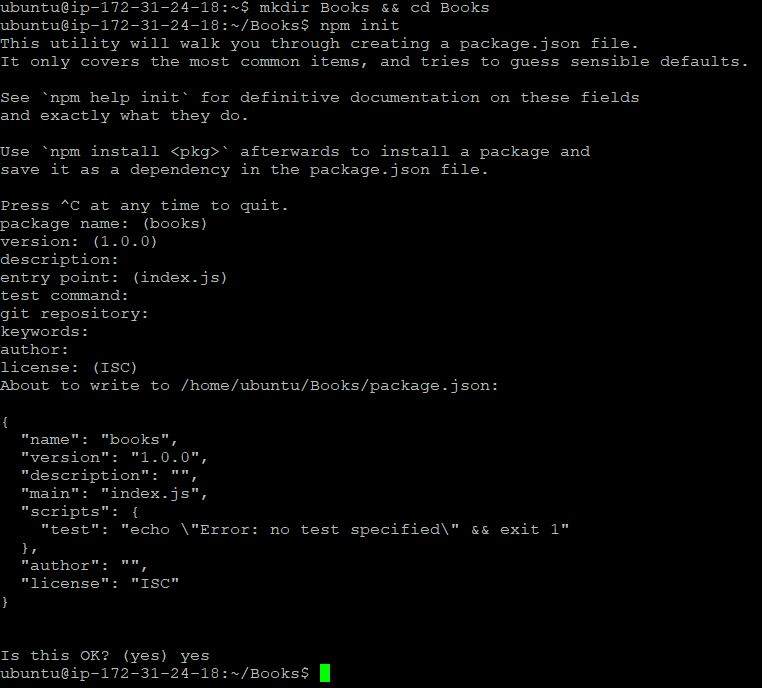
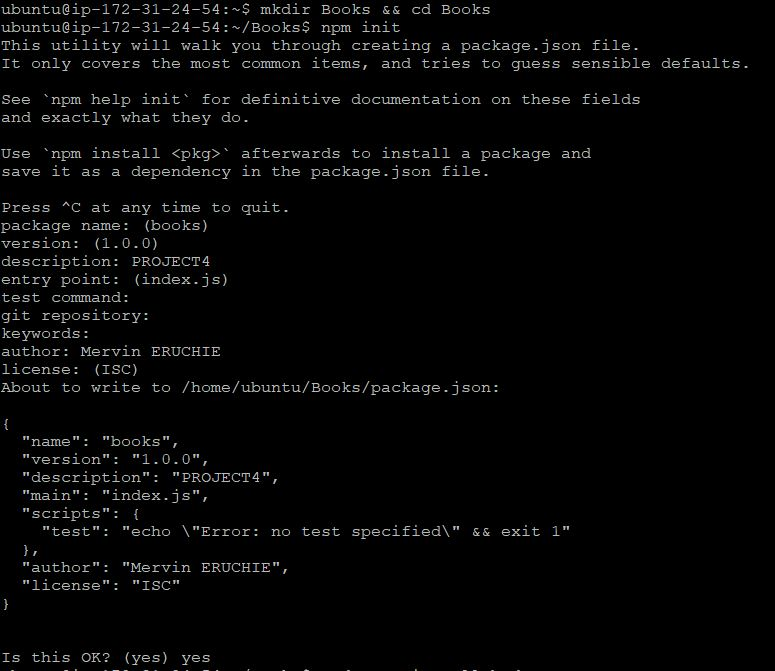
Project 4 update

diff --git a/project4.md b/project4.md
@@ -87,16 +87,17 @@ You can download & install the package from http://archive.ubuntu.com/ubuntu/poo
 
       ![step11](./project4Pictures/step11a_p4.JPG)
 
-   i. Install `body-parser` package
-   - `sudo npm install body-parser`
-
-     ![step12](./project4Pictures/step12_p4.JPG) 
-
-   j. Create a folder named Books and in the Books directory, initialize `npm` project
+  
+   i. Create a folder named Books and in the Books directory, initialize `npm` project
    - `mkdir Books && cd Books`
    - `npm init`
 
      ![step13](./project4Pictures/step13_p4.JPG) 
+
+   j. Install `body-parser` package
+   - `sudo npm install body-parser`
+
+     ![step12](./project4Pictures/step12_p4.JPG) 
 
    k. Add a file named `server.js`and paste the code as shown in the steps below
    - `vi server.js`
@@ -118,12 +119,12 @@ You can download & install the package from http://archive.ubuntu.com/ubuntu/poo
 
    We will use Mongoose package which provides a straight-forward, schema based solution to the model application data. We will also use Mongoose to establish a schema for the database to store data of our book register. 
 
-   a. Install Express using Mongoose package
+   a. Install Express using Mongoose package; navigate to the **Books** directory and instakk express.
    
    - `sudo npm install express mongoose`
    ![step15](./project4Pictures/step15_p4.JPG)  
 
-   b. Create a folder named `apps` in Books folder and within `apps`, create a file named `routes.js` and copy and paste the code on the third step below into `routes.js` file.
+   b. Create a folder named `apps` in **Books** folder and within `apps`, create a file named `routes.js` and copy and paste the code on the third step below into `routes.js` file.
 
    - `mkdir apps && cd apps`
    - `vi routes.js`
@@ -312,3 +313,13 @@ You can download & install the package from http://archive.ubuntu.com/ubuntu/poo
       - `node server.js`
 
         ![step20](./project4Pictures/step20_p4.JPG)
+
+      c. On the browser open the `url` on port 3300 and enter parameters.
+
+      - `http://3.145.144.172:3300/`
+
+        ![step21](./project4Pictures/step21_p4.JPG)
+
+        ![step21](./project4Pictures/step21a_p4.JPG)
+
+        ![step21](./project4Pictures/step21b_p4.JPG)
